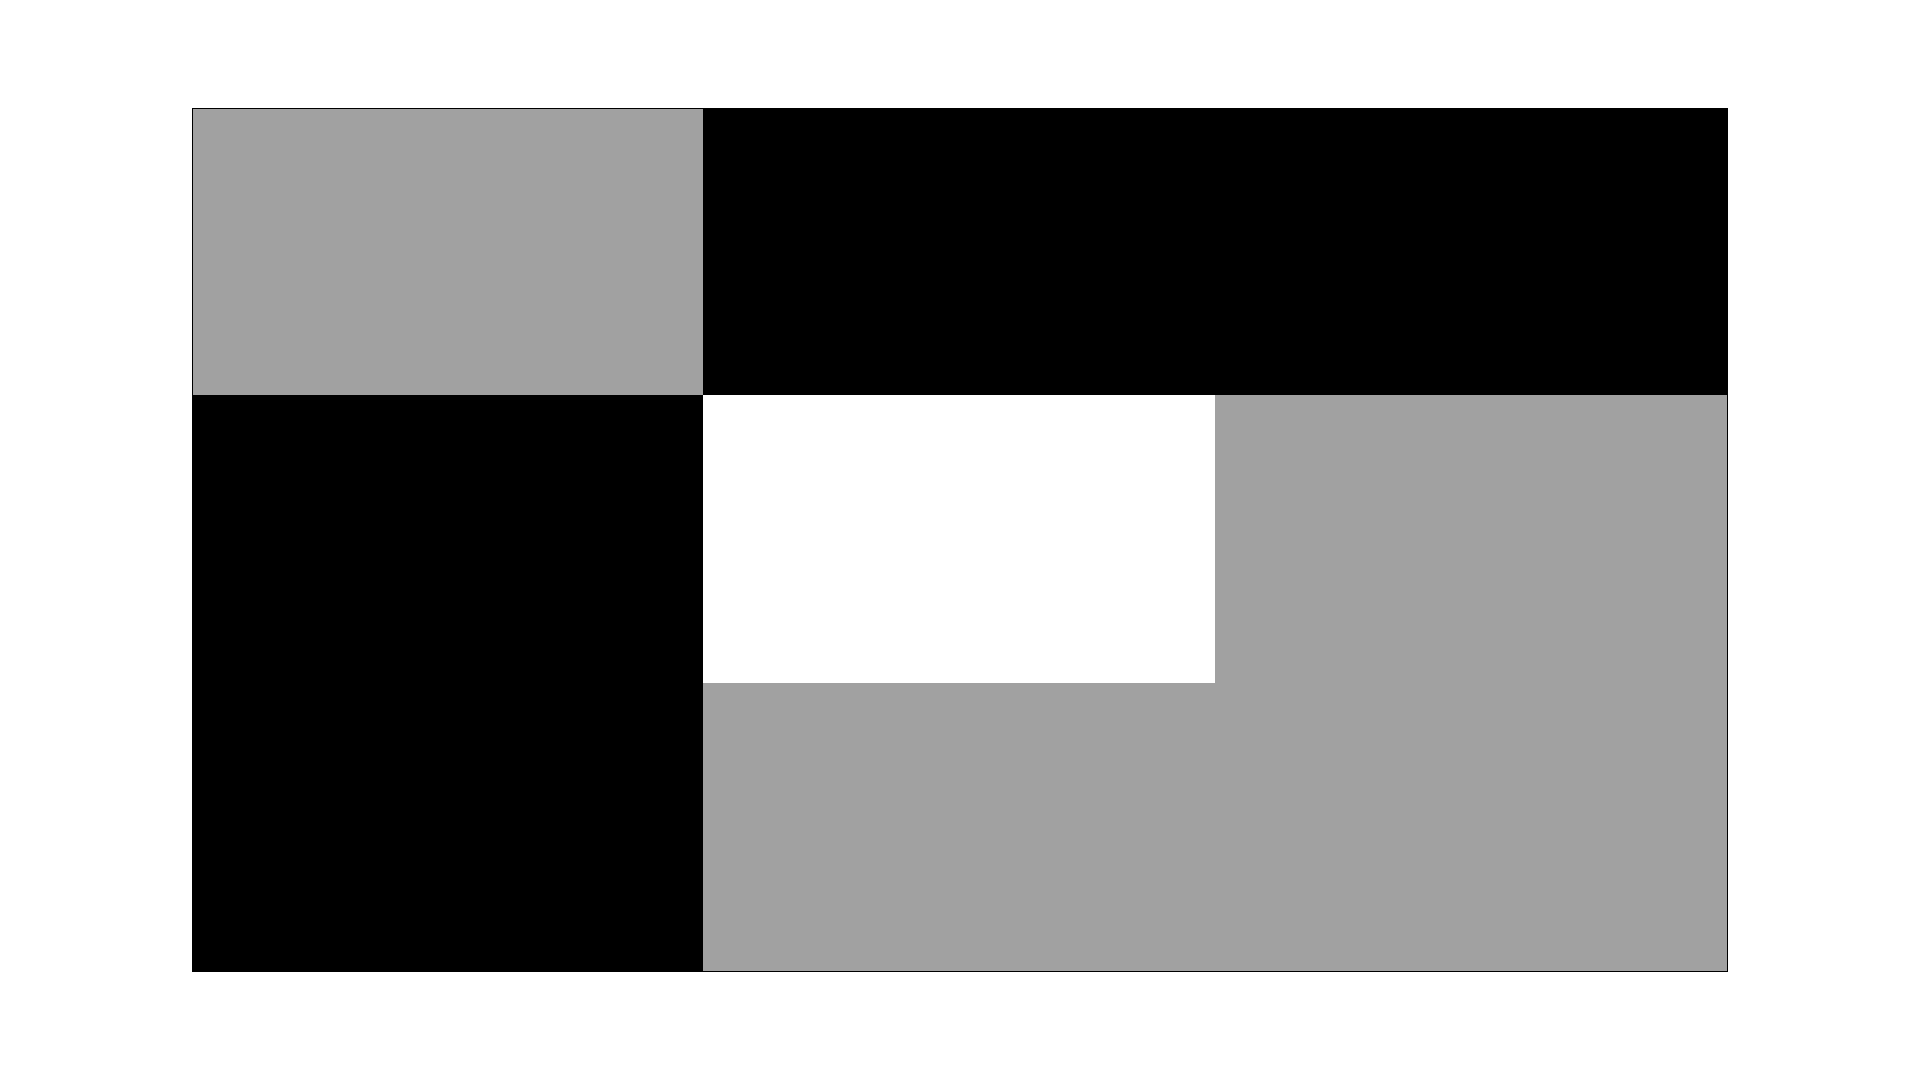
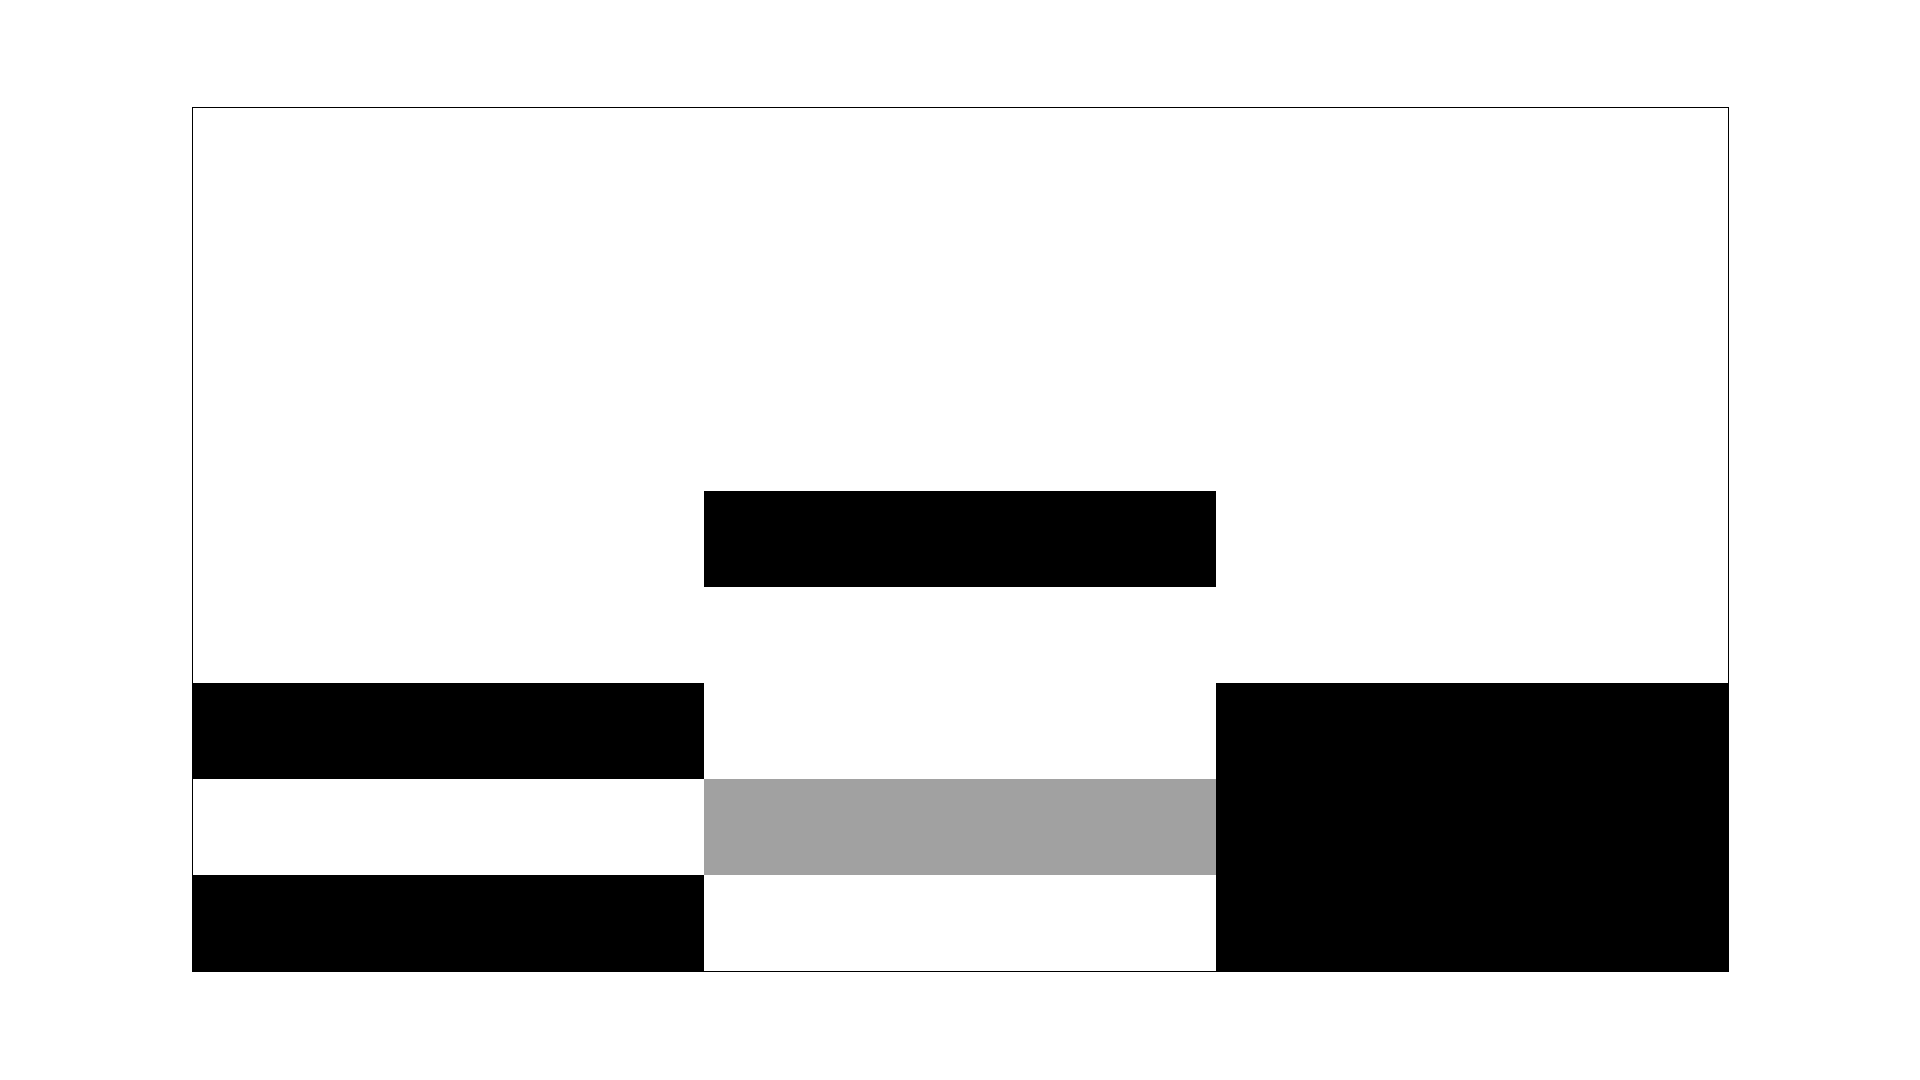
Added Spreading due to Wind Method

diff --git a/spreads.c b/spreads.c
@@ -26,8 +26,12 @@ void spread_burn_prob_neighbours(int** forest_old, int** forest_new, int rows, i
 /* The update function where the trees age slowly. */
 void spread_aging_trees(int** forest_old, int** forest_new, int rows, int cols, long double pImmune, long double pLightning, int neighbourhood_type);
 
+<<<<<<< Updated upstream
 /* Trees can spontaneously grow at any moment. */
 void spread_grow(int** old, int** new, int rows, int cols, long double pImmune, long double pLightning, long double pGrow, int neighbourhood_type);
+=======
+void spread_wind(int **forest_old, int **forest_new, int rows, int cols, long double pImmune, long double pLightning, int neighbourhood_type, int wind_speed, int wind_direction); 
+>>>>>>> Stashed changes
 
 
 /* Actual definitions start now. */
@@ -53,9 +57,17 @@ void spread(int** old, int** new, int rows, int cols, long double pImmune, long 
     printf("Trees age\n");
     spread_aging_trees(old,new,rows, cols, pImmune, pLightning, neighbourhood_type);
     break;
+<<<<<<< Updated upstream
   case GROW:	/* Trees spontaneously grow */
     printf("Trees spontaneously grow\n");
     spread_grow(old,new,rows, cols, pImmune, pLightning, pGrow, neighbourhood_type);
+=======
+  case WIND:
+  	printf("AAg\n");
+  	int wind_speed = 2;
+  	int wind_direction = EAST;
+  	spread_wind(old, new, rows, cols, pImmune, pLightning, neighbourhood_type, wind_speed, wind_direction); 
+>>>>>>> Stashed changes
     break;
   default:
     printf("Defaulting\n");
@@ -285,5 +297,52 @@ void spread_grow(int** old, int** new, int rows, int cols, long double pImmune, 
       }
     }
   }
+  return;
+}
+void spread_wind(int **old, int **new, int rows, int cols, long double pImmune, long double pLightning, int neighbourhood_type, int wind_speed, int wind_direction){
+	  int i,j;
+
+  /* Looping over all the cells */
+  for(i=1;i<=rows;i++)
+  {
+    for(j=1;j<=cols;j++)
+    {
+      if(old[i][j]==EMPTY)
+      { /* If empty, remain empty */
+				new[i][j]=EMPTY;
+      }
+      else if(old[i][j]==BURNING)
+      { /* If burning, burn down. */
+				new[i][j]=EMPTY;
+      }
+      else if(old[i][j]==TREE)
+      { /* if tree, */
+				if(do_neighbours_burn(old,i,j,neighbourhood_type))
+				{
+	  		/* and neigbours are burning */
+	  			if(U<pImmune)
+	  			{
+	    			new[i][j]=check_burning_wind(old,i,j,neighbourhood_type, wind_speed, wind_direction, pImmune, rows,cols);	/* Check if Tree is not burning */
+	  				if(new[i][j]==BURNING)
+	  					printf("Burnnnnnnnn!!!\n");
+	  			}
+	  			else
+	  			{
+	    			new[i][j]=BURNING;	/* else burn it. */
+	  			}
+				}
+			else
+			{
+	  		new[i][j]=check_burning_wind(old,i,j,neighbourhood_type, wind_speed, wind_direction, pImmune, rows,cols);	/* if neighbors aren't burning */
+				if(new[i][j]==BURNING)
+	  					printf("Burnnnnnnnn!!!\n");
+			}
+    }
+    else
+    {			/* If it's none of these, */
+			new[i][j]=ERROR;	/* there's something wrong. */
+    }
+  }
+	}
   return;
 }

diff --git a/utils.c b/utils.c
@@ -38,8 +38,9 @@ int do_neighbours_burn(int** forest, int row_index, int col_index, int neighbour
 /* This counts the number of burning neighbours */
 int count_burning_neighbours(int** forest, int row_index, int col_index, int neighbourhood_type);
 
-
+int check_burning_wind(int** forest, int row_index, int col_index, int neighbourhood_type, int wind_speed, int wind_direction, long double pImmune, int rows, int cols);
 /* This merely prints the forest matrix */
+
 int** print_forest(int** forest, int rows, int cols ){
   int i, j;
 
@@ -253,4 +254,56 @@ int count_burning_neighbours(int** forest, int row_index, int col_index, int nei
   }
   return neighbors_on_fire;
 }
-
+int check_burning_wind(int** forest, int row_index, int col_index, int neighbourhood_type, int wind_speed, int wind_direction, long double pImmune,int rows, int cols)
+{
+	int i=row_index;
+  int j=col_index;
+  int neighbour_status = -5;
+	switch(wind_speed)
+	{
+		case 0:
+			return TREE;
+			break;
+		case 2:
+			
+			switch(wind_direction)
+			{
+				case SOUTH:
+					neighbour_status = forest[Nr(Nr(i))%rows][Nc(Nc(j))%cols];
+					break;
+				case NORTH:
+					neighbour_status = forest[Sr(Sr(i))%rows][Sc(Sc(j))%cols];
+					break;
+				case EAST:
+					neighbour_status = forest[Wr(Wr(i))%rows][Wc(Wc(j))%cols];
+					break;
+				case WEST:
+					neighbour_status = forest[Er(Er(i))%rows][Ec(Ec(j))%cols];
+					break;
+			}
+			if (pImmune<U && neighbour_status == BURNING)
+				return BURNING;
+		case 1:
+			neighbour_status = -5;
+			switch(wind_direction)
+			{
+				case SOUTH:
+					neighbour_status = forest[Nr(i)][Nc(j)];
+					break;
+				case NORTH:
+					neighbour_status = forest[Sr(i)][Sc(j)];
+					break;
+				case EAST:
+					neighbour_status = forest[Wr(i)][Wc(j)];
+					break;
+				case WEST:
+					neighbour_status = forest[Er(i)][Ec(j)];
+					break;
+			}
+			if (pImmune<U && neighbour_status == BURNING)
+				return BURNING;
+			else
+				return TREE;	
+	}
+	
+}

diff --git a/simulation.c b/simulation.c
@@ -24,11 +24,11 @@ int main(){
   /* Currently the same but can be changed when required. */
   int rows=n, cols=n;
   /* Number of steps to run simulation for */
-  int steps=5;/* pow(10,N); */
+  int steps=2;/* pow(10,N); */
 
   /* The types of the neighbourhood and the fire spreading */
   int neighbourhood_type=VON_NEUMANN;
-  int spread_type=BURN_PROB_NEIGHBOURS;
+  int spread_type=WIND;
   
   
   /* The 3d matrix which stores all states of the forest */
@@ -51,11 +51,15 @@ int main(){
   }
   
   /* Initializing the forest */
-  initForest(forest[0], rows, cols, pTree, pBurning);
+  //initForest(forest[0], rows, cols, pTree, pBurning);
+  forest[0][1][1] = 2;
+  forest[0][1][2] = 1;
+  forest[0][1][3] = 1;
   print_forest(forest[0], rows, cols);
   printf("\n");
   file_print_forest(fptr,forest[0], rows, cols);
   fprintf(fptr, "\n");
+  
   
   /* Simulating for other steps */
   for(k=1;k<steps;k++){

diff --git a/spreads.h b/spreads.h
@@ -29,5 +29,7 @@ void spread_aging_trees(int** forest_old, int** forest_new, int rows, int cols, 
 /* Trees can spontaneously grow at any moment. */
 void spread_grow(int** old, int** new, int rows, int cols, long double pImmune, long double pLightning, long double pGrow, int neighbourhood_type);
 
-  
+void spread_wind(int **forest_old, int **forest_new, int rows, int cols, long double pImmune, long double pLightning, int neighbourhood_type, int wind_speed, int wind_direction); 
+
+
 #endif

diff --git a/utils.h b/utils.h
@@ -38,4 +38,6 @@ int do_neighbours_burn(int** forest, int row_index, int col_index, int neighbour
 /* This counts the number of burning neighbours */
 int count_burning_neighbours(int** forest, int row_index, int col_index, int neighbourhood_type);
 
+int check_burning_wind(int** forest, int row_index, int col_index, int neighbourhood_type, int wind_speed, int wind_direction, long double pImmune, int rows, int cols);
+
 #endif

diff --git a/macros.h b/macros.h
@@ -5,6 +5,13 @@
 
 #define N 2  /* Log10 of the number of steps */
 
+
+/*The directions*/
+#define NORTH 1
+#define SOUTH -1
+#define WEST 2
+#define EAST -2
+
 /* This allows generationg of uniform random variables */
 #define U ((long double)rand()/RAND_MAX)
 
@@ -73,4 +80,5 @@
 #define GROW (5)
 
 
+#define WIND (10)
 #endif
